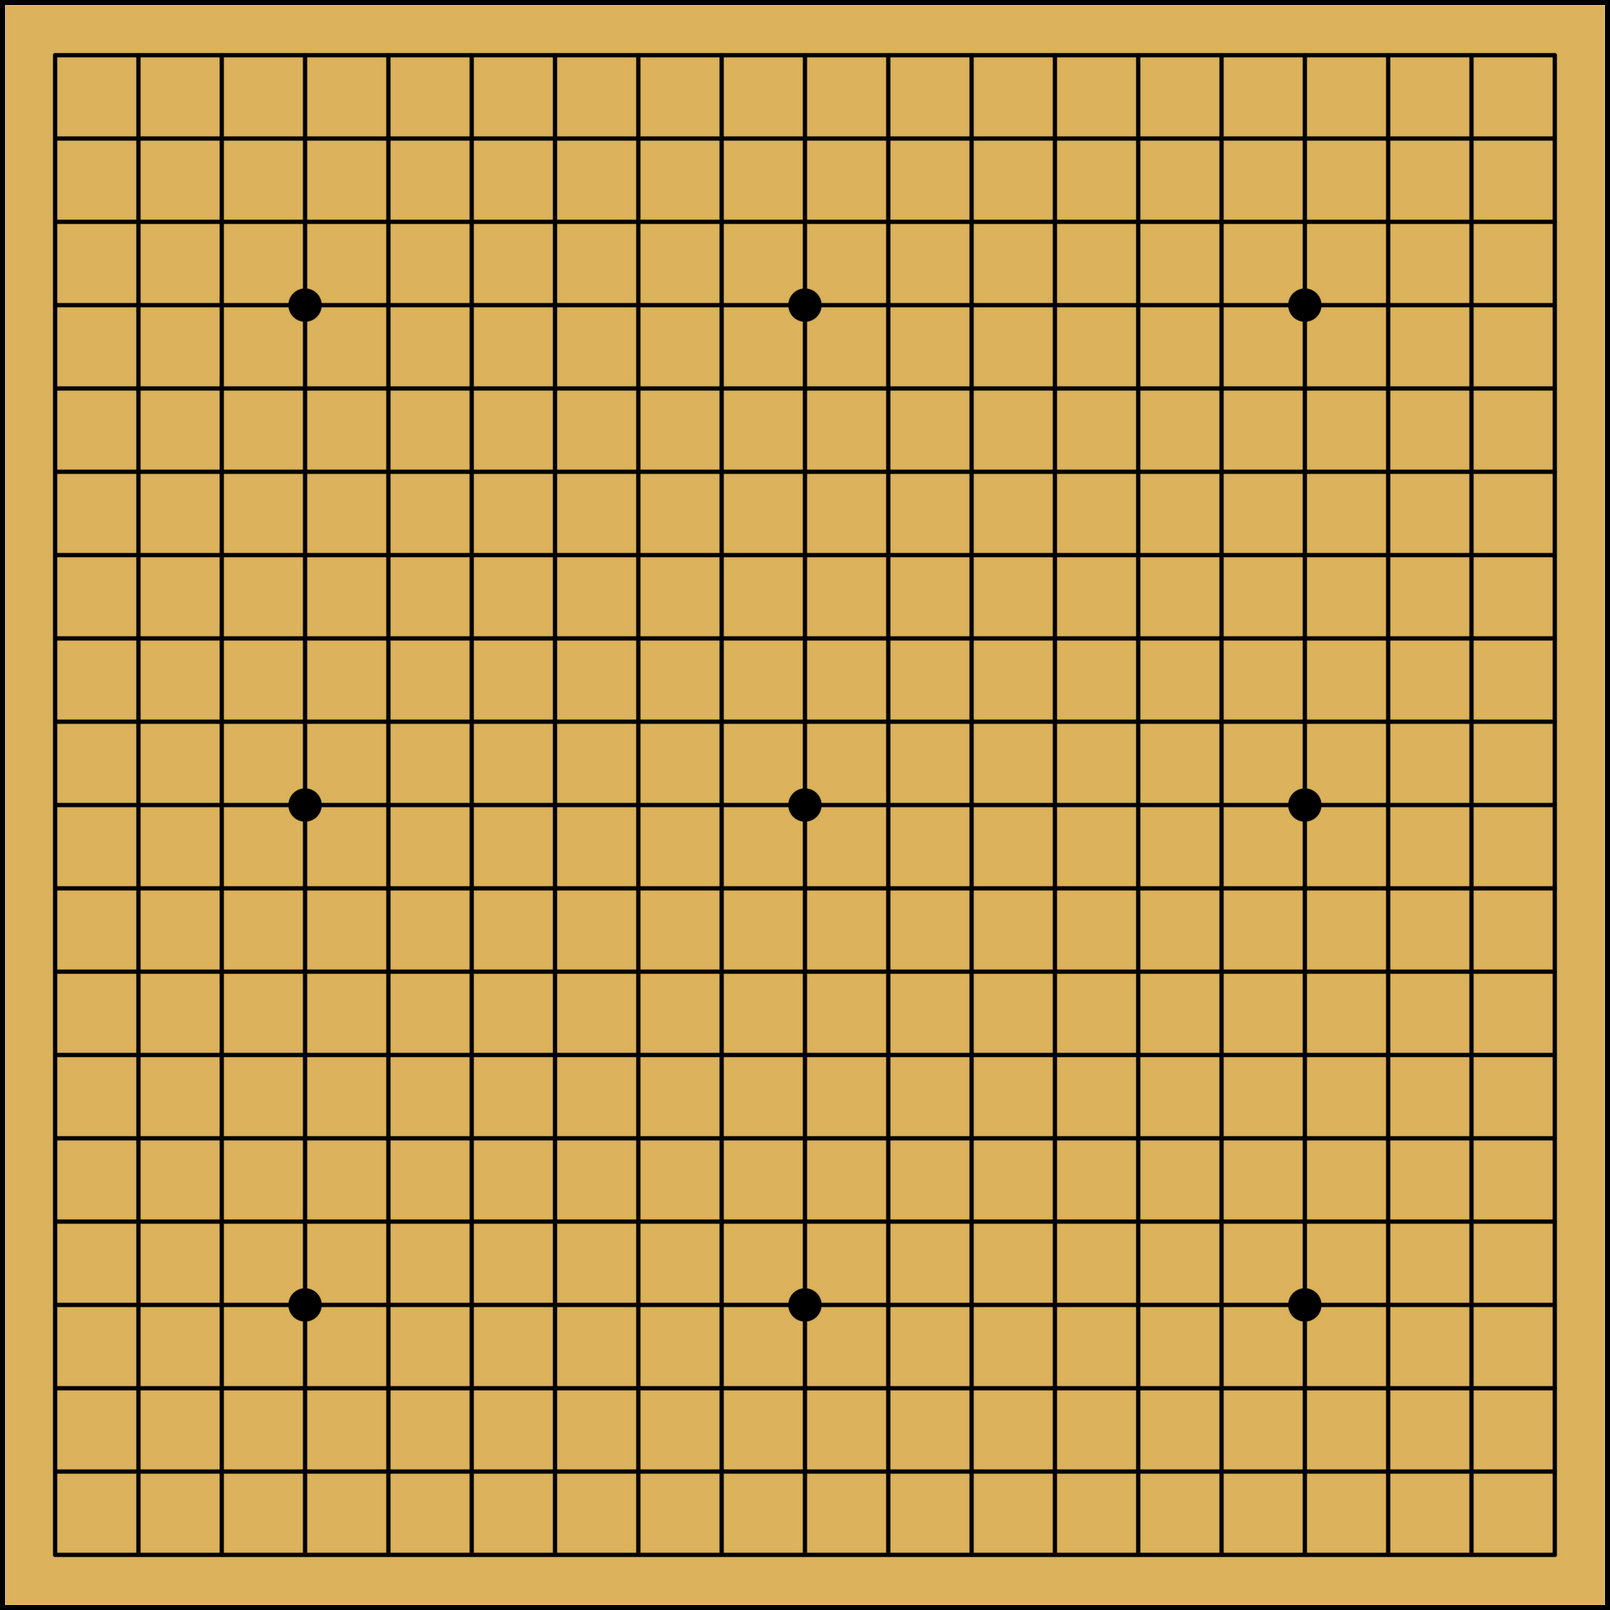
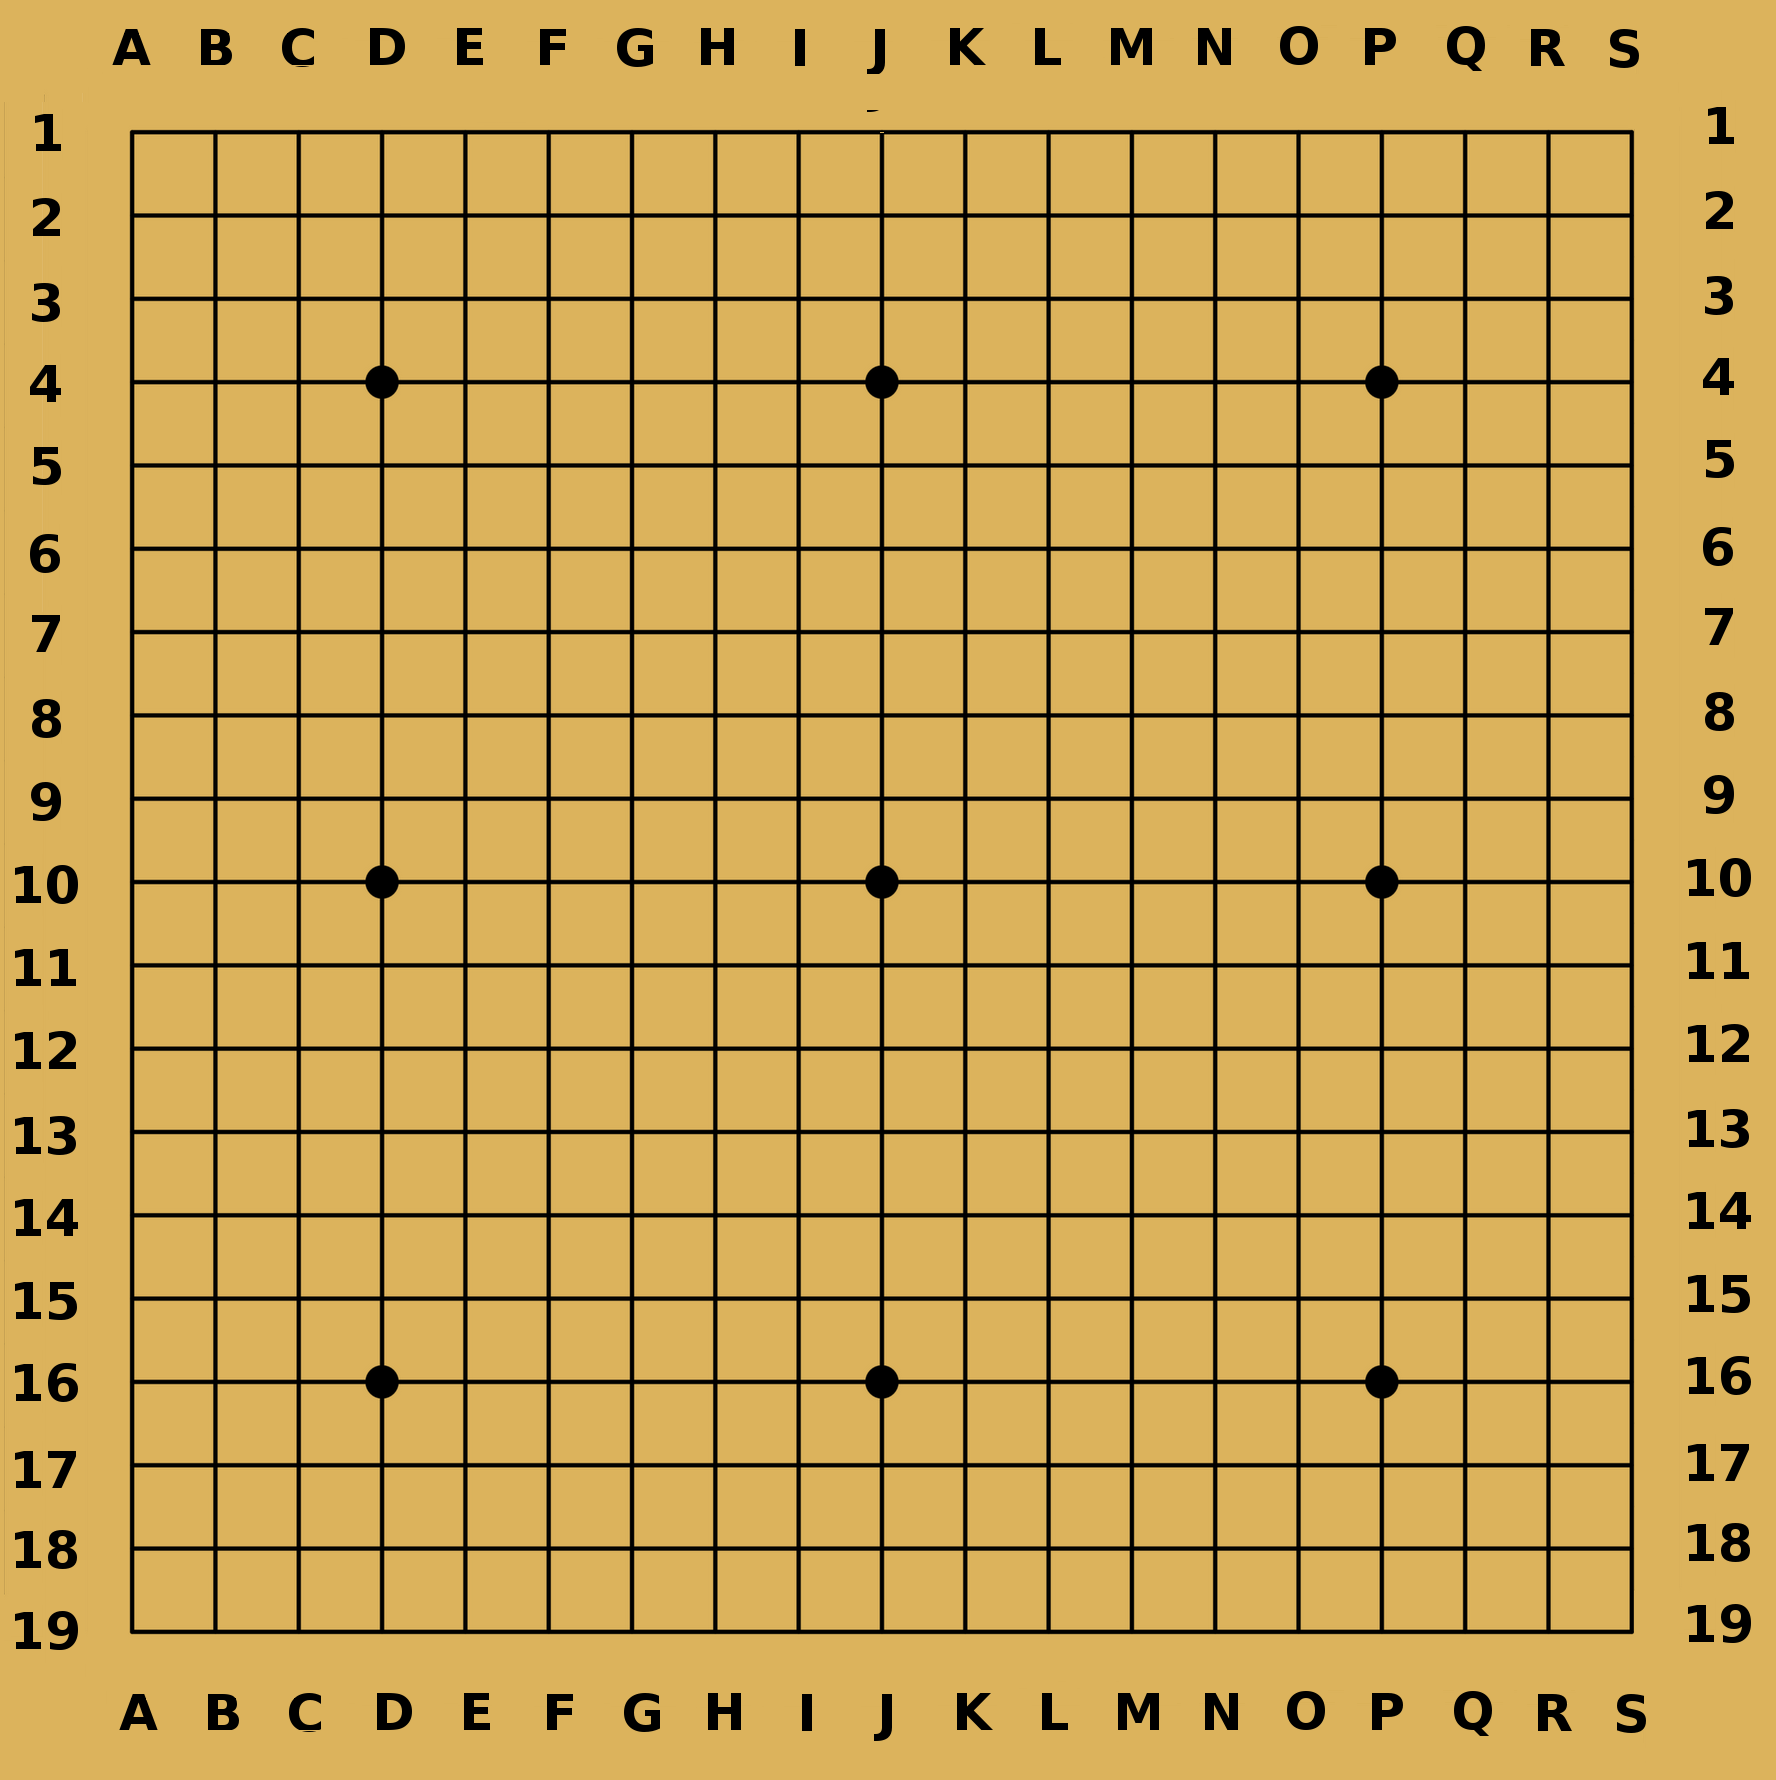
Add some graphical enhancements
* add a script icon
 * add numbers around the board
 * add grey spots in the current stone markers

Changed region(s): [[0.0, 0.0, 1.0, 1.0], [0.0, 0.0, 0.0311, 0.0311]]

diff --git a/README.md b/README.md
@@ -10,6 +10,3 @@ This is a Kodi addon that allows one to solve tsumego
 
 * scale the board when the tsumego is small
 
-* add letters around the board's edge
-* add some grey to the position markers
-* game logo
